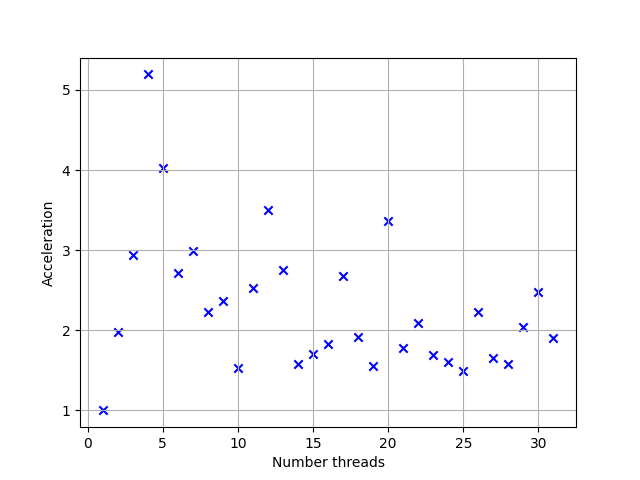
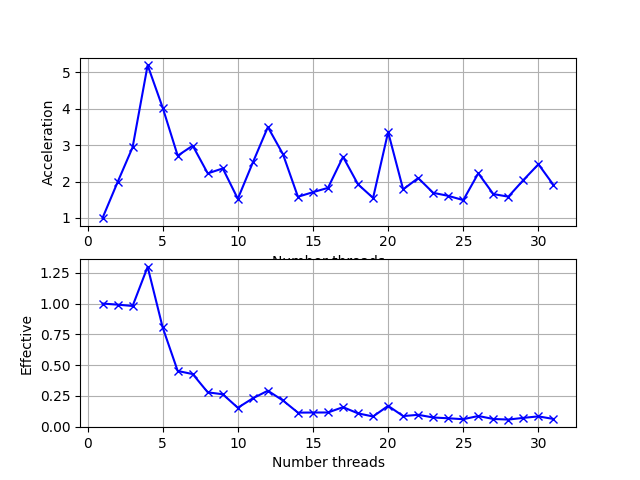
[Lab2]:  Add plot of effective and start srcipts

diff --git a/OpenMPI/Tasks/Lab2/common/plot.py b/OpenMPI/Tasks/Lab2/common/plot.py
@@ -10,20 +10,39 @@ def ProcessTimeSize2AccselSize(path):
 
     num_workers = data[:, 0]
     time = data[:, 1]
-    
+
     accsel = np.zeros(time.size)
     for i in range(time.size):
         accsel[i] = time[0] / time[i]
 
     return [num_workers, accsel]
 
-size, time = ProcessTimeSize2AccselSize(path)
+def ProcessTimeSize2EffectiveSize(path):
+    data = np.loadtxt(path)
 
-plt.scatter(size, time, color='blue', marker='x')
+    num_workers = data[:, 0]
+    time = data[:, 1]
 
+    eff = np.zeros(time.size)
+    for i in range(time.size):
+        accel = time[0] / time[i]
+        eff[i] = accel / num_workers[i]
+
+    return [num_workers, eff]
+
+num_threads, acc = ProcessTimeSize2AccselSize(path)
+num_threads, eff = ProcessTimeSize2EffectiveSize(path)
+
+plt.subplot(2, 1, 1)
+plt.plot(num_threads, acc, color='blue', marker='x')
 plt.grid()
 plt.xlabel("Number threads")
 plt.ylabel("Acceleration")
 
+plt.subplot(2, 1, 2)
+plt.plot(num_threads, eff, color='blue', marker='x')
+plt.grid()
+plt.xlabel("Number threads")
+plt.ylabel("Effective")
+
 plt.show()
-# plt.savefig(path + '.jpg')

diff --git a/OpenMPI/Tasks/Lab2/personal/plot.py b/OpenMPI/Tasks/Lab2/personal/plot.py
@@ -10,20 +10,39 @@ def ProcessTimeSize2AccselSize(path):
 
     num_workers = data[:, 0]
     time = data[:, 1]
-    
+
     accsel = np.zeros(time.size)
     for i in range(time.size):
         accsel[i] = time[0] / time[i]
 
     return [num_workers, accsel]
 
-size, time = ProcessTimeSize2AccselSize(path)
+def ProcessTimeSize2EffectiveSize(path):
+    data = np.loadtxt(path)
 
-plt.scatter(size, time, color='blue', marker='x')
+    num_workers = data[:, 0]
+    time = data[:, 1]
 
+    eff = np.zeros(time.size)
+    for i in range(time.size):
+        accel = time[0] / time[i]
+        eff[i] = accel / num_workers[i]
+
+    return [num_workers, eff]
+
+num_threads, acc = ProcessTimeSize2AccselSize(path)
+num_threads, eff = ProcessTimeSize2EffectiveSize(path)
+
+plt.subplot(2, 1, 1)
+plt.plot(num_threads, acc, color='blue', marker='x')
 plt.grid()
 plt.xlabel("Number threads")
 plt.ylabel("Acceleration")
 
+plt.subplot(2, 1, 2)
+plt.plot(num_threads, eff, color='blue', marker='x')
+plt.grid()
+plt.xlabel("Number threads")
+plt.ylabel("Effective")
+
 plt.show()
-# plt.savefig(path + '.jpg')
